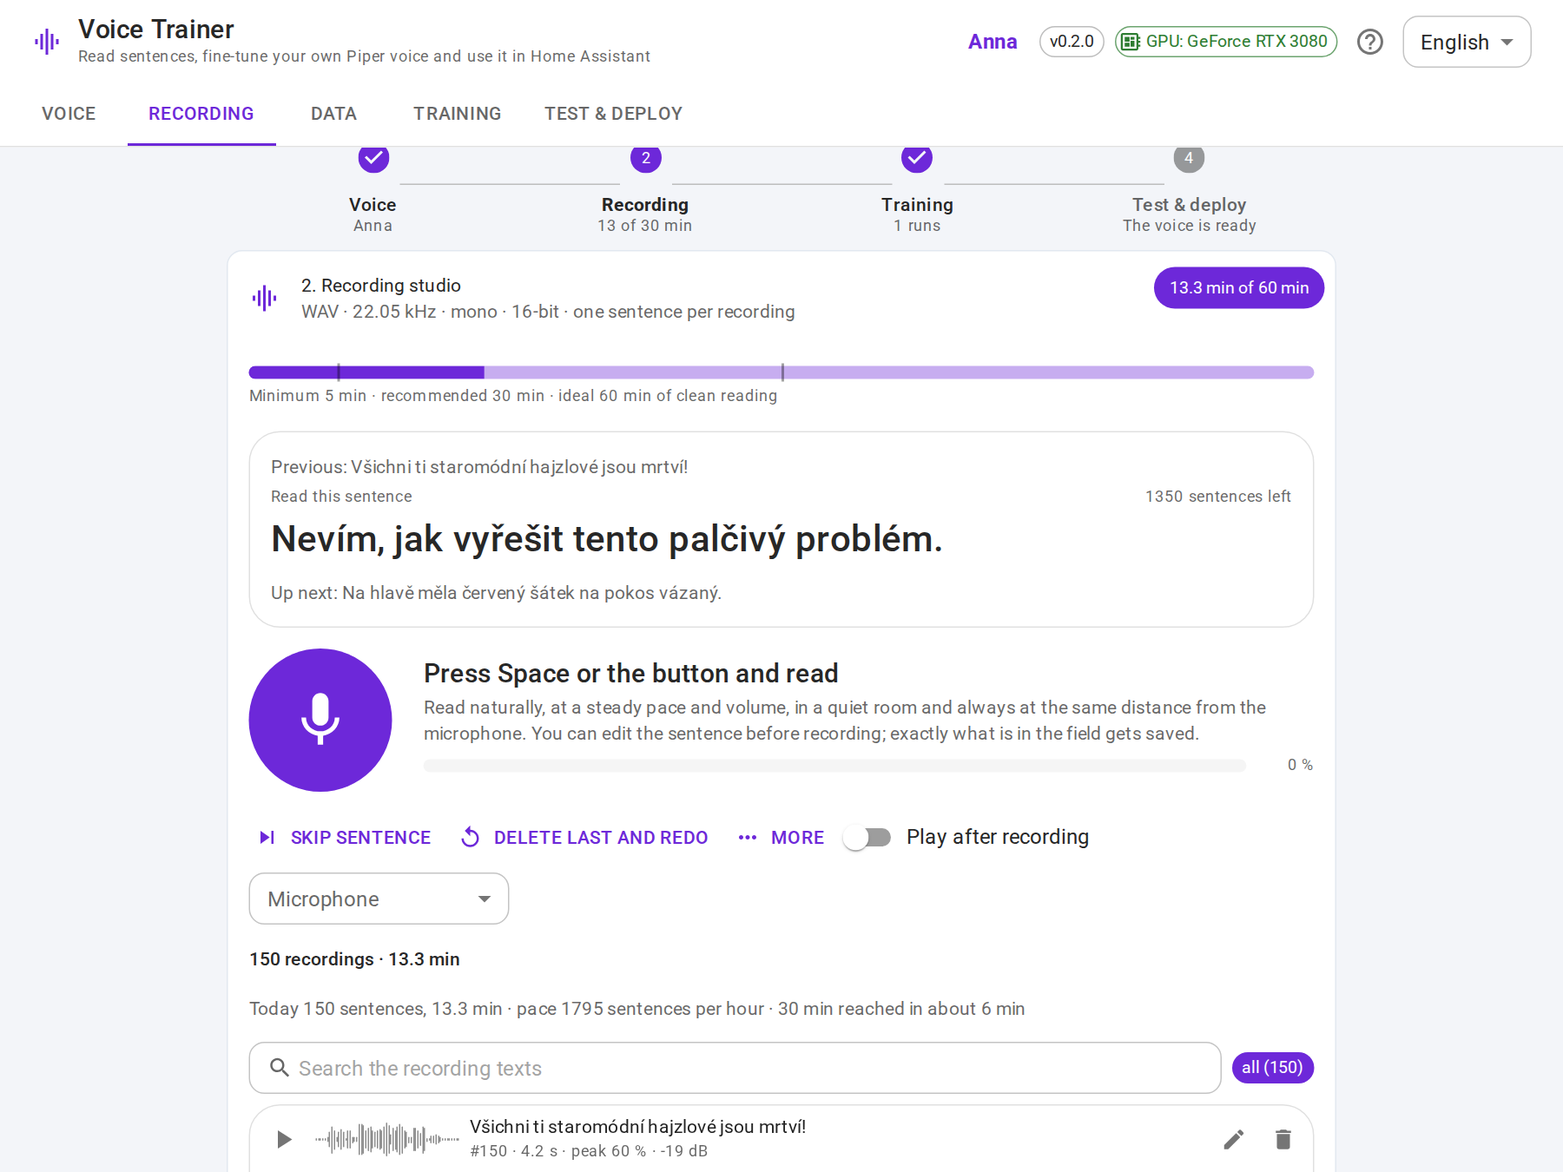
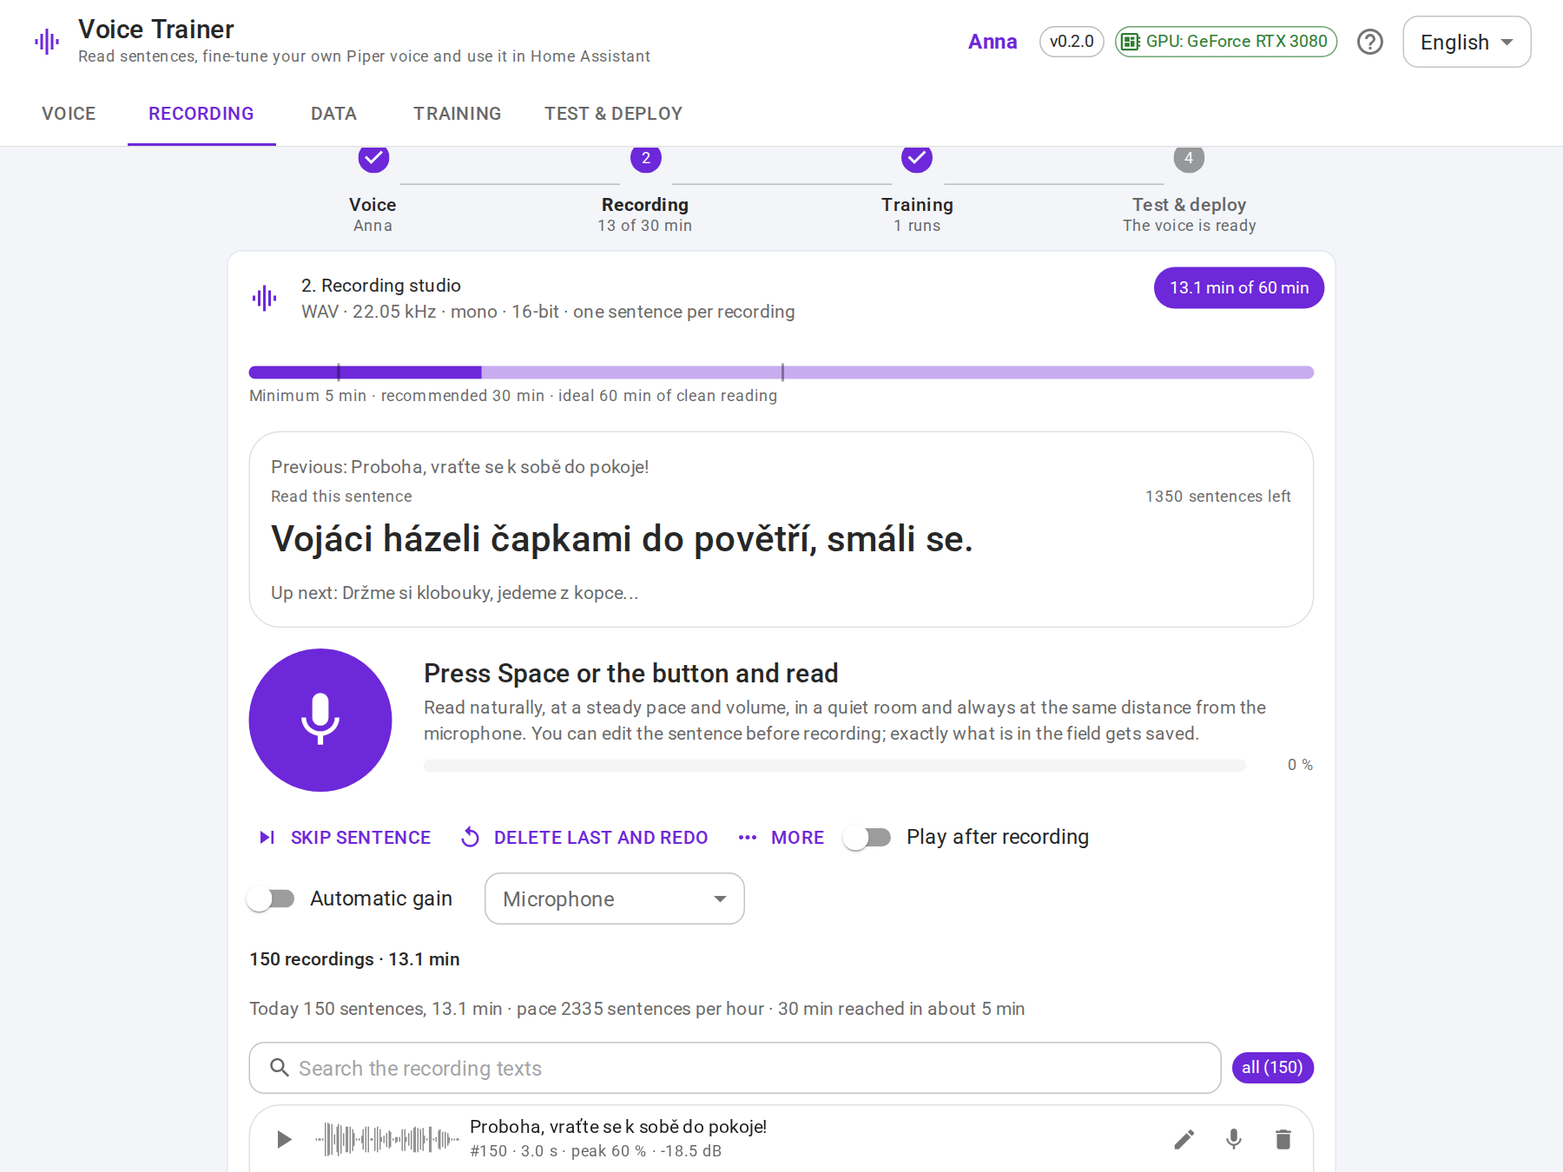
Latest checkpoint really is the latest; pauses of the takes faded down for training; browser AGC off by default
- Lightning only refreshes save_last's copy when a new best is saved, so last.ckpt (resume, the 'last epoch'
  export) lagged behind at the best epoch; a monitor-less ModelCheckpoint now writes it at every validation
- training option quiet_pauses (default on): room noise inside pauses longer than 120 ms is faded down by
  18 dB in a copy of the takes used for training; speech is untouched (spectral denoisers eat consonants)
- the studio's automatic gain control is a switch, off by default, remembered in the browser; the mic test
  uses the same setting

Claude-Session: https://claude.ai/code/session_016QvvWy4CUkUmov8RgW9YJS

diff --git a/frontend/src/components/StudioCard.tsx b/frontend/src/components/StudioCard.tsx
@@ -1,5 +1,5 @@
 import { useCallback, useEffect, useRef, useState } from "react";
-import { Alert, Box, Button, Card, CardContent, CardHeader, Chip, CircularProgress, Dialog, DialogActions, DialogContent, DialogTitle, FormControlLabel, IconButton, LinearProgress, ListItemIcon, ListItemText, Menu, MenuItem, Snackbar, Stack, Switch, TextField, Typography, useTheme } from "@mui/material";
+import { Alert, Box, Button, Card, CardContent, CardHeader, Chip, CircularProgress, Dialog, DialogActions, DialogContent, DialogTitle, FormControlLabel, IconButton, LinearProgress, ListItemIcon, ListItemText, Menu, MenuItem, Snackbar, Stack, Switch, TextField, Tooltip, Typography, useTheme } from "@mui/material";
 import MicIcon from "@mui/icons-material/Mic";
 import StopIcon from "@mui/icons-material/Stop";
 import GraphicEqIcon from "@mui/icons-material/GraphicEq";
@@ -68,6 +68,7 @@ export function StudioCard({ voice, minutes, disabled, onChanged, onError }: Pro
   const [autoPlay, setAutoPlay] = useState(() => readPref("autoplay") === "1");
   const [devices, setDevices] = useState<{ deviceId: string; label: string }[]>([]);
   const [deviceId, setDeviceId] = useState(() => readPref("mic") ?? "");
+  const [agc, setAgc] = useState(() => readPref("agc") === "1");
   const [playing, setPlaying] = useState<{ id: string; progress: number } | null>(null);
   const [undo, setUndo] = useState<string | null>(null);
   const [customOpen, setCustomOpen] = useState(false);
@@ -86,6 +87,7 @@ export function StudioCard({ voice, minutes, disabled, onChanged, onError }: Pro
 
   useEffect(() => writePref("autoplay", autoPlay ? "1" : "0"), [autoPlay]);
   useEffect(() => writePref("mic", deviceId), [deviceId]);
+  useEffect(() => writePref("agc", agc ? "1" : "0"), [agc]);
   // a remembered microphone that is no longer plugged in falls back to the default
   useEffect(() => {
     if (deviceId && devices.length && !devices.some((d) => d.deviceId === deviceId)) setDeviceId("");
@@ -166,7 +168,7 @@ export function StudioCard({ voice, minutes, disabled, onChanged, onError }: Pro
     setLastPeaks(null);
     try {
       setPhase("prepare");
-      await recorderRef.current.init(deviceId || undefined);
+      await recorderRef.current.init(deviceId || undefined, agc);
       if (devices.length === 0) Recorder.listDevices().then(setDevices).catch(() => undefined);
       await new Promise((r) => setTimeout(r, 250));
       setPhase("recording");
@@ -199,7 +201,7 @@ export function StudioCard({ voice, minutes, disabled, onChanged, onError }: Pro
       setPhase("idle");
       busyRef.current = false;
     }
-  }, [autoPlay, current?.id, deviceId, devices.length, disabled, onChanged, onError, phase, playOne, refresh, stopPlayback, t, text, voice.max_record_seconds]);
+  }, [agc, autoPlay, current?.id, deviceId, devices.length, disabled, onChanged, onError, phase, playOne, refresh, stopPlayback, t, text, voice.max_record_seconds]);
 
   useEffect(() => {
     const handler = (e: KeyboardEvent) => {
@@ -416,6 +418,9 @@ export function StudioCard({ voice, minutes, disabled, onChanged, onError }: Pro
               ))}
             </Menu>
             <FormControlLabel control={<Switch checked={autoPlay} onChange={(e) => setAutoPlay(e.target.checked)} />} label={t("studio.autoplay")} />
+            <Tooltip title={t("studio.agcHint")}>
+              <FormControlLabel control={<Switch checked={agc} onChange={(e) => setAgc(e.target.checked)} disabled={busy} />} label={t("studio.agc")} />
+            </Tooltip>
             <TextField select size="small" label={t("studio.mic")} value={deviceId} onChange={(e) => setDeviceId(e.target.value)} sx={{ minWidth: 200 }} disabled={busy}>
               <MenuItem value="">{t("studio.micDefault")}</MenuItem>
               {devices.map((d) => (
@@ -454,7 +459,7 @@ export function StudioCard({ voice, minutes, disabled, onChanged, onError }: Pro
         }}
         onError={onError}
       />
-      <MicCheckDialog open={micCheckOpen} recorder={recorderRef.current} deviceId={deviceId} sentence={text || t("mic.fallbackSentence")} recordings={recordings} onClose={() => setMicCheckOpen(false)} onError={onError} />
+      <MicCheckDialog open={micCheckOpen} recorder={recorderRef.current} deviceId={deviceId} agc={agc} sentence={text || t("mic.fallbackSentence")} recordings={recordings} onClose={() => setMicCheckOpen(false)} onError={onError} />
       <ReviewDialog open={reviewOpen} queue={review.queue} onClose={() => setReviewOpen(false)} onApprove={review.approve} onDelete={remove} onRedo={review.redo} />
 
       <Dialog open={customOpen} onClose={() => setCustomOpen(false)} fullWidth maxWidth="sm">

diff --git a/frontend/src/i18n.tsx b/frontend/src/i18n.tsx
@@ -130,6 +130,8 @@ const cs = {
   "studio.skip": "Přeskočit větu",
   "studio.redo": "Smazat poslední a znovu",
   "studio.autoplay": "Přehrát po nahrání",
+  "studio.agc": "Automatické zesílení",
+  "studio.agcHint": "Prohlížeč sám přidává zesílení v tichých místech a s ním i šum; hlasitost se pak mezi větami liší. Nechte vypnuté a hlasitost nastavte podle testu mikrofonu.",
   "studio.mic": "Mikrofon",
   "studio.micDefault": "Výchozí mikrofon",
   "studio.custom": "Vlastní věty",
@@ -330,6 +332,8 @@ const cs = {
   "train.f.learning_rate": "Learning rate",
   "train.h.learning_rate": "Počáteční rychlost učení; během běhu klesne na 5 %.",
   "train.f.patience": "Zastavit po N validacích bez zlepšení",
+  "train.f.quiet_pauses": "Ztišit pauzy v nahrávkách",
+  "train.h.quiet_pauses": "Šum místnosti v pauzách delších než 0,1 s se před tréninkem ztlumí o 18 dB, řeč zůstane beze změny. Model se pak neučí, že ticho šumí. Originály nahrávek se nemění.",
   "train.h.patience": "Když se validační mel loss tolikrát po sobě nezlepší, trénink skončí sám. 0 = nikdy.",
   "train.saveParams": "Uložit parametry",
   "train.reset": "Výchozí hodnoty",
@@ -568,6 +572,8 @@ const en: Record<keyof typeof cs, string> = {
   "studio.skip": "Skip sentence",
   "studio.redo": "Delete last and redo",
   "studio.autoplay": "Play after recording",
+  "studio.agc": "Automatic gain",
+  "studio.agcHint": "The browser raises the gain in quiet passages and the room noise with it; the level then differs between takes. Leave it off and set the level with the microphone test.",
   "studio.mic": "Microphone",
   "studio.micDefault": "Default microphone",
   "studio.custom": "Custom sentences",
@@ -768,6 +774,8 @@ const en: Record<keyof typeof cs, string> = {
   "train.f.learning_rate": "Learning rate",
   "train.h.learning_rate": "Initial learning rate; it decays to 5 % over the run.",
   "train.f.patience": "Stop after N validations without improvement",
+  "train.f.quiet_pauses": "Quieten the pauses of the takes",
+  "train.h.quiet_pauses": "Room noise inside pauses longer than 0.1 s is faded down by 18 dB before training, the speech stays untouched, so the model does not learn that silence hisses. The original recordings are not changed.",
   "train.h.patience": "When the validation mel loss does not improve that many times in a row, the run stops by itself. 0 = never.",
   "train.saveParams": "Save parameters",
   "train.reset": "Defaults",

diff --git a/frontend/src/components/TrainingCard.tsx b/frontend/src/components/TrainingCard.tsx
@@ -1,5 +1,5 @@
 import { lazy, Suspense, useEffect, useRef, useState } from "react";
-import { Accordion, AccordionDetails, AccordionSummary, Alert, Box, Button, Card, CardContent, CardHeader, Chip, Collapse, LinearProgress, MenuItem, Stack, TextField, Typography } from "@mui/material";
+import { Accordion, AccordionDetails, AccordionSummary, Alert, Box, Button, Card, CardContent, CardHeader, Chip, Collapse, FormControlLabel, LinearProgress, MenuItem, Stack, Switch, TextField, Tooltip, Typography } from "@mui/material";
 import ModelTrainingIcon from "@mui/icons-material/ModelTraining";
 import PlayArrowIcon from "@mui/icons-material/PlayArrow";
 import StopIcon from "@mui/icons-material/Stop";
@@ -40,7 +40,7 @@ const STATUS_COLOR: Record<TrainingState["status"], "default" | "info" | "succes
   interrupted: "warning",
 };
 const STAGES = new Set(["checking_base", "downloading_base", "preparing", "training", "stopping", "exporting", "done", "failed", "cancelled", "interrupted"]);
-const FIELDS: { key: keyof TrainingParams; step: number; min: number }[] = [
+const FIELDS: { key: Exclude<keyof TrainingParams, "quiet_pauses">; step: number; min: number }[] = [
   { key: "epochs", step: 50, min: 10 },
   { key: "batch_size", step: 2, min: 2 },
   { key: "validation_every", step: 5, min: 1 },
@@ -167,6 +167,9 @@ export function TrainingCard({ state, log, voice, report, defaults, system, onVo
                   <TextField key={f.key} type="number" size="small" label={t(`train.f.${f.key}` as TKey)} helperText={t(`train.h.${f.key}` as TKey)} value={params[f.key]} onChange={(e) => setParams({ ...params, [f.key]: Number(e.target.value) })} inputProps={{ step: f.step, min: f.min }} />
                 ))}
               </Box>
+              <Tooltip title={t("train.h.quiet_pauses")}>
+                <FormControlLabel sx={{ mt: 1 }} control={<Switch checked={params.quiet_pauses} onChange={(e) => setParams({ ...params, quiet_pauses: e.target.checked })} />} label={t("train.f.quiet_pauses")} />
+              </Tooltip>
               <Stack direction="row" spacing={1} sx={{ mt: 1 }}>
                 <Button size="small" variant="contained" onClick={saveParams} disabled={busy || !paramsDirty}>
                   {t("train.saveParams")}

diff --git a/frontend/src/lib/recorder.ts b/frontend/src/lib/recorder.ts
@@ -24,21 +24,25 @@ export class Recorder {
   private workletUrl: string | null = null;
 
   private deviceId: string | undefined;
+  private agc = false;
 
-  async init(deviceId?: string): Promise<void> {
-    if (this.stream && deviceId === this.deviceId) return;
+  /** ``agc``: the browser's automatic gain control. Off by default: it raises the gain in quiet passages and
+   *  the room noise with it, and the level then differs between takes. */
+  async init(deviceId?: string, agc = false): Promise<void> {
+    if (this.stream && deviceId === this.deviceId && agc === this.agc) return;
     if (this.stream) this.close();
     if (!navigator.mediaDevices?.getUserMedia) {
       throw new Error("mic_unsupported");
     }
     this.deviceId = deviceId;
+    this.agc = agc;
     this.stream = await navigator.mediaDevices.getUserMedia({
       audio: {
         deviceId: deviceId ? { exact: deviceId } : undefined,
         channelCount: 1,
         echoCancellation: false,
         noiseSuppression: false,
-        autoGainControl: true,
+        autoGainControl: agc,
       },
     });
     this.context = new AudioContext();
@@ -72,7 +76,7 @@ export class Recorder {
     onLevel?: LevelCallback,
     options: { silenceMs?: number; minSeconds?: number; stopTrimMs?: number; onStart?: (stop: () => void) => void } = {},
   ): Promise<{ wav: Blob; samples: Float32Array; sampleRate: number }> {
-    await this.init(this.deviceId);
+    await this.init(this.deviceId, this.agc);
     const context = this.context!;
     if (context.state === "suspended") await context.resume();
     const source = context.createMediaStreamSource(this.stream!);

diff --git a/frontend/src/components/MicCheckDialog.tsx b/frontend/src/components/MicCheckDialog.tsx
@@ -6,7 +6,7 @@ import { useI18n } from "../i18n";
 import { Recorder } from "../lib/recorder";
 import { LevelMeter } from "./LevelMeter";
 
-type Props = { open: boolean; recorder: Recorder; deviceId: string; sentence: string; recordings: Recording[]; onClose: () => void; onError: (message: string) => void };
+type Props = { open: boolean; recorder: Recorder; deviceId: string; agc: boolean; sentence: string; recordings: Recording[]; onClose: () => void; onError: (message: string) => void };
 type Step = "intro" | "silence" | "speech" | "result";
 type Result = { noiseDb: number; speechDb: number; peak: number; snr: number; previousDb: number | null };
 
@@ -34,7 +34,7 @@ function measure(samples: Float32Array): { rms: number; peak: number; speechRms:
   return { rms: total, peak, speechRms };
 }
 
-export function MicCheckDialog({ open, recorder, deviceId, sentence, recordings, onClose, onError }: Props) {
+export function MicCheckDialog({ open, recorder, deviceId, agc, sentence, recordings, onClose, onError }: Props) {
   const { t } = useI18n();
   const [step, setStep] = useState<Step>("intro");
   const [level, setLevel] = useState(0);
@@ -51,7 +51,7 @@ export function MicCheckDialog({ open, recorder, deviceId, sentence, recordings,
 
   const run = async () => {
     try {
-      await recorder.init(deviceId || undefined);
+      await recorder.init(deviceId || undefined, agc);
       setStep("silence");
       const quiet = await recorder.record(3, (l) => setLevel(l.rms * 6), { minSeconds: 3, silenceMs: 100000 });
       noiseRef.current = measure(quiet.samples).rms;

diff --git a/tests/e2e/smoke.js b/tests/e2e/smoke.js
@@ -16,7 +16,7 @@ const BASE = process.env.BASE_URL || "http://localhost:8001";
     await page.getByRole("button", { name: "Create" }).click();
     await page.waitForTimeout(1500);
   }
-  const expected = { Voice: ["1. Voice", "Consent of the voice owner"], Recording: ["Recording studio"], Data: ["Dataset overview", "Import a long recording"], Training: ["Voice training"], "Test & deploy": ["4. Test", "Deployment"] };
+  const expected = { Voice: ["1. Voice", "Consent of the voice owner"], Recording: ["Recording studio"], Data: ["Dataset overview", "Import a long recording"], Training: ["Voice training"], "Test & deploy": ["4. Test"] };
   for (const [tab, titles] of Object.entries(expected)) {
     await page.getByRole("tab", { name: tab }).click();
     await page.waitForTimeout(1500);

diff --git a/frontend/src/api.ts b/frontend/src/api.ts
@@ -5,6 +5,7 @@ export type TrainingParams = {
   preview_every: number;
   learning_rate: number;
   patience: number;
+  quiet_pauses: boolean;
 };
 
 export type Consent = { text: string; owner: string; at: string; duration: number };

diff --git a/backend/app/audio.py b/backend/app/audio.py
@@ -171,3 +171,46 @@ def analyze(path, text: str | None = None) -> dict:
             "issues": issues,
         },
     }
+
+
+def quiet_pauses(audio: np.ndarray, sr: int, min_pause_ms: int = 120, attenuation_db: float = 18.0, ramp_ms: int = 40, keep_ms: int = 40) -> np.ndarray:
+    """Turns the room noise down inside the pauses of a take and leaves the speech untouched.
+
+    A model trained on takes with audible pauses learns that silence hisses. Spectral denoisers also eat the
+    noise-like consonants, so this only fades pauses longer than ``min_pause_ms`` down by ``attenuation_db``,
+    keeping ``keep_ms`` of context around the speech and ``ramp_ms`` long fades.
+    """
+    frame = max(1, sr // 100)
+    n = audio.shape[0]
+    if n < frame * 20:
+        return audio
+    rms = np.sqrt((audio[: (n // frame) * frame].reshape(-1, frame) ** 2).mean(axis=1) + 1e-12)
+    peak = float(rms.max())
+    if peak < 1e-3:
+        return audio
+    noise = float(np.percentile(rms, 10))
+    threshold = max(peak * 10 ** (-30 / 20.0), noise * 10 ** (15 / 20.0), 0.004)
+    quiet = rms <= threshold
+    gain = np.ones(len(rms), dtype=np.float32)
+    keep, min_len = keep_ms // 10, min_pause_ms // 10
+    i = 0
+    while i < len(quiet):
+        if not quiet[i]:
+            i += 1
+            continue
+        j = i
+        while j < len(quiet) and quiet[j]:
+            j += 1
+        # the edges of the take are pauses too (no speech to keep context for on the outer side)
+        lo = i if i == 0 else i + keep
+        hi = j if j == len(quiet) else j - keep
+        if hi - lo >= min_len:
+            gain[lo:hi] = 10 ** (-attenuation_db / 20.0)
+        i = j
+    # frame gains -> smooth per-sample envelope
+    env = np.repeat(gain, frame)
+    env = np.concatenate([env, np.full(n - len(env), env[-1], dtype=np.float32)]) if len(env) < n else env[:n]
+    ramp = max(1, int(sr * ramp_ms / 1000))
+    kernel = np.ones(ramp, dtype=np.float32) / ramp
+    env = np.convolve(env, kernel, mode="same").astype(np.float32)
+    return (audio * env).astype(np.float32)

diff --git a/backend/app/jobs.py b/backend/app/jobs.py
@@ -33,6 +33,17 @@ RUNNING = ("downloading", "preparing", "training", "exporting")
 STOP_FILE = "STOP"  # created in the job directory to ask the trainer for a clean stop
 
 
+def prepare_training_audio(voice: Voice, items: list[dict[str, Any]], target: Path) -> None:
+    import soundfile as sf
+
+    from .audio import quiet_pauses
+
+    target.mkdir(parents=True, exist_ok=True)
+    for r in items:
+        data, sr = sf.read(str(voice.recordings_dir / f"{r['id']}.wav"), dtype="float32", always_2d=True)
+        sf.write(str(target / f"{r['id']}.wav"), quiet_pauses(data[:, 0], sr), sr, subtype="PCM_16")
+
+
 class JobManager:
     def __init__(self) -> None:
         self._lock = threading.Lock()
@@ -184,6 +195,11 @@ class JobManager:
         lines = [f"{r['id']}.wav|{r['text'].replace('|', ' ')}" for r in items]
         (job_dir / "dataset" / "metadata.csv").write_text("\n".join(lines) + "\n", encoding="utf-8")
         training = dict(settings["training"])
+        audio_dir = voice.recordings_dir
+        if training.get("quiet_pauses", True):
+            # the takes go in with their pauses faded down; the originals stay as they are
+            audio_dir = job_dir / "dataset" / "audio"
+            prepare_training_audio(voice, items, audio_dir)
         job = {
             "job_id": job_id,
             "voice_id": voice.id,
@@ -198,7 +214,7 @@ class JobManager:
             "max_epochs": int(training["epochs"]),
             "recordings": len(items),
             "minutes": round(minutes, 2),
-            "audio_dir": str(voice.recordings_dir),
+            "audio_dir": str(audio_dir),
             "job_dir": str(job_dir),
             "base_checkpoint": str(base.base_path(language)),
             "test_sentences": [apply_lexicon(t, settings.get("lexicon") or {}) for t in LANGUAGES[language]["test_sentences"]],

diff --git a/backend/tests/test_prompts_and_audio.py b/backend/tests/test_prompts_and_audio.py
@@ -120,3 +120,23 @@ def test_misspelled_sentences_are_dropped_from_the_corpus():
     lines = ["Ale protože žije jen v bytě, až tolik příežitostí k pohybu nemá.", "Karolína vytahuje sluneční brýle a nasazuje si je na nos."]
     assert prompts.filter_sentences(lines, "cs") == [lines[1]]
     assert len(prompts.filter_sentences(lines, "cs", spell=False)) == 2
+
+
+def test_quiet_pauses_fades_long_pauses_only():
+    from app.audio import quiet_pauses
+
+    sr = 22050
+    rng = np.random.default_rng(2)
+    noise = (0.005 * rng.standard_normal(int(5.0 * sr))).astype(np.float32)
+    t = np.arange(int(1.5 * sr)) / sr
+    word = (0.3 * np.sin(2 * np.pi * 200 * t)).astype(np.float32)
+    audio = noise.copy()
+    audio[int(0.5 * sr) : int(0.5 * sr) + len(word)] += word  # 0.5-2.0 s speech
+    audio[int(2.08 * sr) : int(2.08 * sr) + len(word)] += word  # a 80 ms gap: stays
+    audio[int(4.3 * sr) : int(4.3 * sr) + int(0.5 * sr)] += word[: int(0.5 * sr)]  # a 0.7 s pause before it: faded
+    out = quiet_pauses(audio, sr)
+    rms = lambda a, b: float(np.sqrt((out[int(a * sr) : int(b * sr)] ** 2).mean()) / np.sqrt((audio[int(a * sr) : int(b * sr)] ** 2).mean()))
+    assert 0.95 < rms(0.8, 1.8) < 1.05  # speech untouched
+    assert 0.8 < rms(2.0, 2.08) < 1.05  # the short gap untouched
+    assert rms(3.7, 4.2) < 0.2  # the long pause down by ~18 dB
+    assert rms(0.0, 0.4) < 0.2  # leading silence too

diff --git a/backend/trainer/fit.py b/backend/trainer/fit.py
@@ -165,8 +165,11 @@ def main() -> None:
     torch.backends.cudnn.deterministic = False
     ckpt_dir = os.environ.get("VT_CHECKPOINT_DIR", "checkpoints")
     callbacks = [
-        # best reconstruction + always the latest (needed to resume / continue)
-        ModelCheckpoint(dirpath=ckpt_dir, monitor="val_mel", mode="min", save_top_k=1, save_last=True, filename="best_mel-epoch={epoch}", auto_insert_metric_name=False),
+        # the latest state at every validation (to resume / continue from). Not ``save_last=True`` of the best-mel
+        # callback: Lightning refreshes that copy only when a new best is saved, so it would lag behind.
+        ModelCheckpoint(dirpath=ckpt_dir, monitor=None, save_top_k=1, filename="last", auto_insert_metric_name=False, enable_version_counter=False),
+        # best reconstruction
+        ModelCheckpoint(dirpath=ckpt_dir, monitor="val_mel", mode="min", save_top_k=1, filename="best_mel-epoch={epoch}", auto_insert_metric_name=False),
         # best perceived quality (UTMOS); silently inactive when the predictor cannot be loaded
         OptionalMetricCheckpoint(dirpath=ckpt_dir, monitor="val_mos", mode="max", save_top_k=1, save_last=False, filename="best_mos-epoch={epoch}", auto_insert_metric_name=False),
         ProgressCallback(),

diff --git a/backend/app/config.py b/backend/app/config.py
@@ -92,6 +92,7 @@ DEFAULT_TRAINING = {
     "preview_every": 50,  # epochs between audible previews (multiple of validation_every)
     "learning_rate": 0.0002,
     "patience": 5,  # validations without a better val_mel before the run stops by itself (0 = never)
+    "quiet_pauses": True,  # fade the room noise down inside the pauses of the takes used for training
 }
 
 MIN_MINUTES = 5.0  # hard minimum to start training
@@ -199,7 +200,8 @@ def save_settings(voice: Voice, update: dict[str, Any]) -> dict[str, Any]:
     if "training" in update and isinstance(update["training"], dict):
         for key, default in DEFAULT_TRAINING.items():
             if key in update["training"] and update["training"][key] is not None:
-                settings["training"][key] = type(default)(update["training"][key])
+                value = update["training"][key]
+                settings["training"][key] = bool(value) if isinstance(default, bool) else type(default)(value)
         t = settings["training"]
         t["epochs"] = max(10, min(20000, t["epochs"]))
         t["batch_size"] = max(2, min(64, t["batch_size"]))
